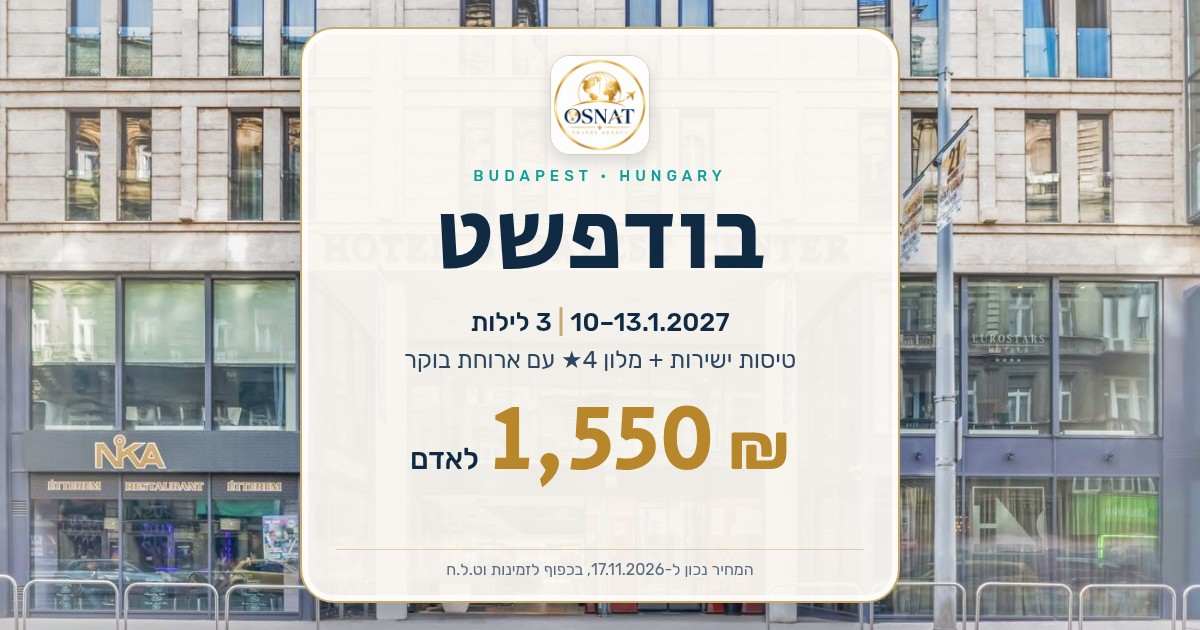
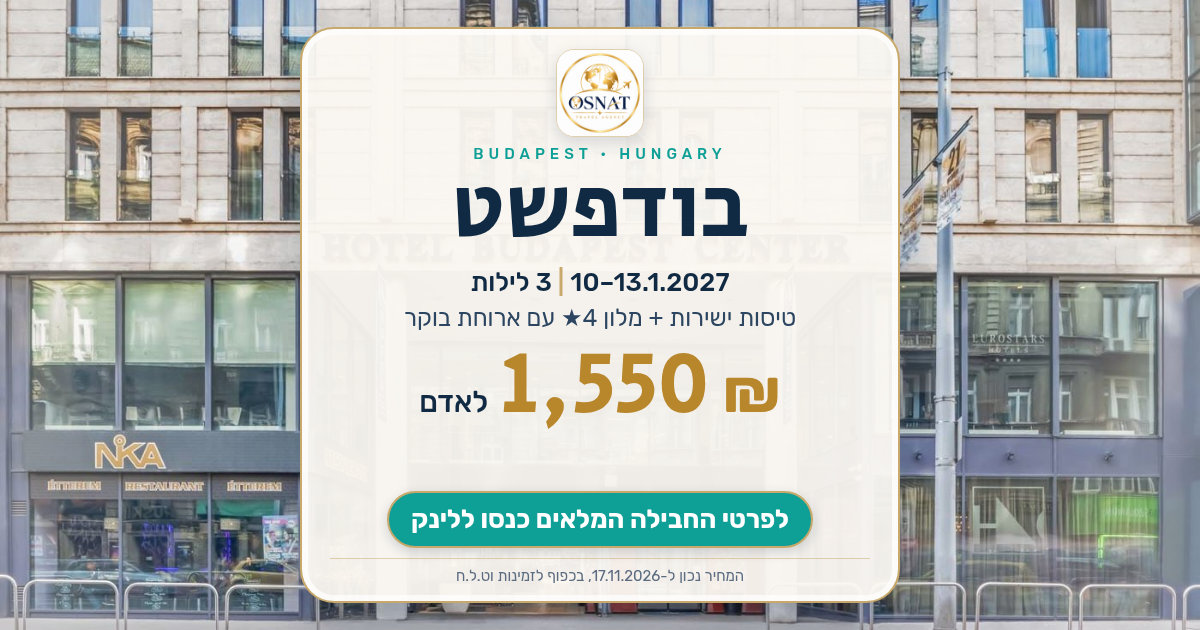
Budapest WhatsApp preview: CTA on branded og.jpg (?v=3) and shortened share description
Add 'לפרטי החבילה המלאים כנסו ללינק' as a teal pill on the share image, and shorten og/twitter/meta descriptions so the line appears before WhatsApp truncation.

diff --git a/preview/site-redesign/budapest-exe/index.html b/preview/site-redesign/budapest-exe/index.html
@@ -1,15 +1,15 @@
 <!DOCTYPE html>
 
 <html dir="rtl" lang="he"><head><meta charset="utf-8"/>
-<meta name="description" content="טיסות ישירות ישראייר · 3 לילות ב-Exe Budapest Center 4★ עם ארוחת בוקר · 1,550 ₪ לאדם בחדר זוגי · לפרטי החבילה המלאים כנסו ללינק">
+<meta name="description" content="טיסות ישירות + מלון 4★ עם ארוחת בוקר · 1,550 ₪ לאדם · לפרטי החבילה המלאים כנסו ללינק">
 <meta property="og:title" content="בודפשט | 10–13.1.2027 | 1,550 ₪ לאדם">
-<meta property="og:description" content="טיסות ישירות ישראייר · 3 לילות ב-Exe Budapest Center 4★ עם ארוחת בוקר · 1,550 ₪ לאדם בחדר זוגי · לפרטי החבילה המלאים כנסו ללינק">
-<meta property="og:image" content="https://osnat-travel.com/preview/site-redesign/budapest-exe/og.jpg?v=2">
+<meta property="og:description" content="טיסות ישירות + מלון 4★ עם ארוחת בוקר · 1,550 ₪ לאדם · לפרטי החבילה המלאים כנסו ללינק">
+<meta property="og:image" content="https://osnat-travel.com/preview/site-redesign/budapest-exe/og.jpg?v=3">
 <meta property="og:image:width" content="1200">
 <meta property="og:image:height" content="630">
 <meta property="og:url" content="https://osnat-travel.com/preview/site-redesign/budapest-exe/">
-<meta name="twitter:image" content="https://osnat-travel.com/preview/site-redesign/budapest-exe/og.jpg?v=2">
-<meta name="twitter:description" content="טיסות ישירות ישראייר · 3 לילות ב-Exe Budapest Center 4★ עם ארוחת בוקר · 1,550 ₪ לאדם בחדר זוגי · לפרטי החבילה המלאים כנסו ללינק">
+<meta name="twitter:image" content="https://osnat-travel.com/preview/site-redesign/budapest-exe/og.jpg?v=3">
+<meta name="twitter:description" content="טיסות ישירות + מלון 4★ עם ארוחת בוקר · 1,550 ₪ לאדם · לפרטי החבילה המלאים כנסו ללינק">
 <meta name="twitter:title" content="בודפשט | 10–13.1.2027 | 1,550 ₪ לאדם">
 <meta property="og:image:alt" content="בודפשט | 10–13.1.2027 | 1,550 ₪ לאדם">
 <meta property="og:image:type" content="image/jpeg">

diff --git a/budapest-exe/index.html b/budapest-exe/index.html
@@ -1,15 +1,15 @@
 <!DOCTYPE html>
 
 <html dir="rtl" lang="he"><head><meta charset="utf-8"/>
-<meta name="description" content="טיסות ישירות ישראייר · 3 לילות ב-Exe Budapest Center 4★ עם ארוחת בוקר · 1,550 ₪ לאדם בחדר זוגי · לפרטי החבילה המלאים כנסו ללינק">
+<meta name="description" content="טיסות ישירות + מלון 4★ עם ארוחת בוקר · 1,550 ₪ לאדם · לפרטי החבילה המלאים כנסו ללינק">
 <meta property="og:title" content="בודפשט | 10–13.1.2027 | 1,550 ₪ לאדם">
-<meta property="og:description" content="טיסות ישירות ישראייר · 3 לילות ב-Exe Budapest Center 4★ עם ארוחת בוקר · 1,550 ₪ לאדם בחדר זוגי · לפרטי החבילה המלאים כנסו ללינק">
-<meta property="og:image" content="https://osnat-travel.com/budapest-exe/og.jpg?v=2">
+<meta property="og:description" content="טיסות ישירות + מלון 4★ עם ארוחת בוקר · 1,550 ₪ לאדם · לפרטי החבילה המלאים כנסו ללינק">
+<meta property="og:image" content="https://osnat-travel.com/budapest-exe/og.jpg?v=3">
 <meta property="og:image:width" content="1200">
 <meta property="og:image:height" content="630">
 <meta property="og:url" content="https://osnat-travel.com/budapest-exe/">
-<meta name="twitter:image" content="https://osnat-travel.com/budapest-exe/og.jpg?v=2">
-<meta name="twitter:description" content="טיסות ישירות ישראייר · 3 לילות ב-Exe Budapest Center 4★ עם ארוחת בוקר · 1,550 ₪ לאדם בחדר זוגי · לפרטי החבילה המלאים כנסו ללינק">
+<meta name="twitter:image" content="https://osnat-travel.com/budapest-exe/og.jpg?v=3">
+<meta name="twitter:description" content="טיסות ישירות + מלון 4★ עם ארוחת בוקר · 1,550 ₪ לאדם · לפרטי החבילה המלאים כנסו ללינק">
 <meta name="twitter:title" content="בודפשט | 10–13.1.2027 | 1,550 ₪ לאדם">
 <meta property="og:image:alt" content="בודפשט | 10–13.1.2027 | 1,550 ₪ לאדם">
 <meta property="og:image:type" content="image/jpeg">
